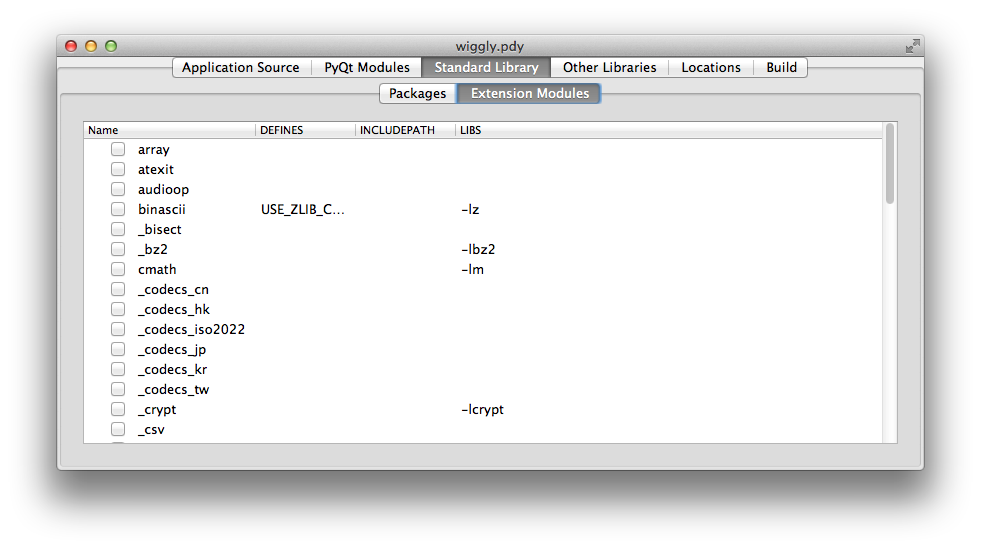
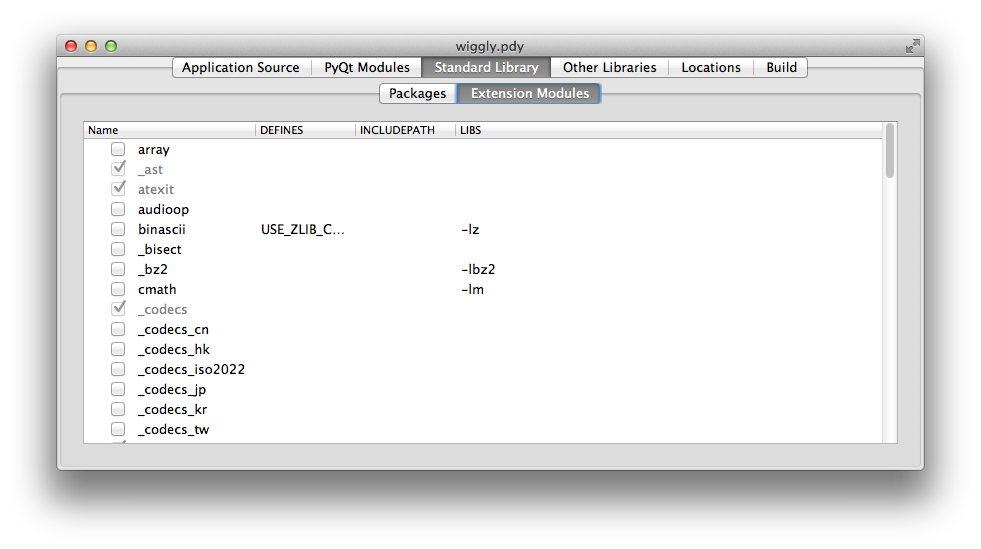
Updated the docs to cover entry points and core extension modules.

diff --git a/doc/tutorial.rst b/doc/tutorial.rst
@@ -28,16 +28,37 @@ packages and sub-packages that is typical of a larger application.
 Defining the Application Source
 -------------------------------
 
+Python applications are usually structured in one of the following ways:
+
+- a single standalone executable script that is installed in a ``bin``
+  directory somewhere
+
+- a package installed in ``site-packages`` with a separate executable script
+  installed in a ``bin`` directory
+
+- a package installed in ``site-packages`` with a separate executable script
+  that is automatically generated by :mod:`setuptools`.  The script calls an
+  *entry point* in the package.  An *entry point* is the name of a module in
+  the package and the name of a callable within the module separated by a
+  ``:``.
+
+:program:`pyqtdeploy` itself uses the :mod:`setuptools` based structure.
+
 The tab for defining the application source is shown below.
 
 .. image:: /images/application_source_tab.png
     :align: center
 
+**Name**
+    is used to specify the name of the final application executable.  If it is
+    not specified then it is derived from the name of the main script file.  If
+    the application does not have a main script file then the name is derived
+    from the name of the application package.
+
 **Main script file**
-    is used to specify the name of the main Python script of the application
-    (actually the only Python script in this example).  The final deployable
-    application will have the same name as this script (with the extension
-    removed).
+    is used to specify the name of the executable Python script used to invoke
+    the application.  It should not be specified if an entry point is
+    specified.
 
     .. note::
         Whenever a file or directory is specified, :program:`pyqtdeploy` always
@@ -47,6 +68,11 @@ The tab for defining the application source is shown below.
         a file or directory name is entered, :program:`pyqtdeploy` allows the
         embedding of environment variables which will be expanded when
         necessary.
+
+**Entry Point**
+    is used to specify the entry point of a :mod:`setuptools`-based
+    application.  It should not be specified if a main script file is
+    specified.
 
 **sys.path**
     is used to specify additional directories that will be added to
@@ -196,6 +222,10 @@ to specify the location of the library's header files in the ``INCLUDEPATH``
 field and add a ``-L`` flag to the ``LIBS`` field if the library is not
 installed in locations that will be found automatically by the compiler and
 linker.
+
+Note that some extension modules are shown as checked and are disabled (e.g.
+:mod:`atexit`).  These correspond to those extension modules that are always
+compiled in with the Python interpreter library.
 
 
 Defining Additional Packages
